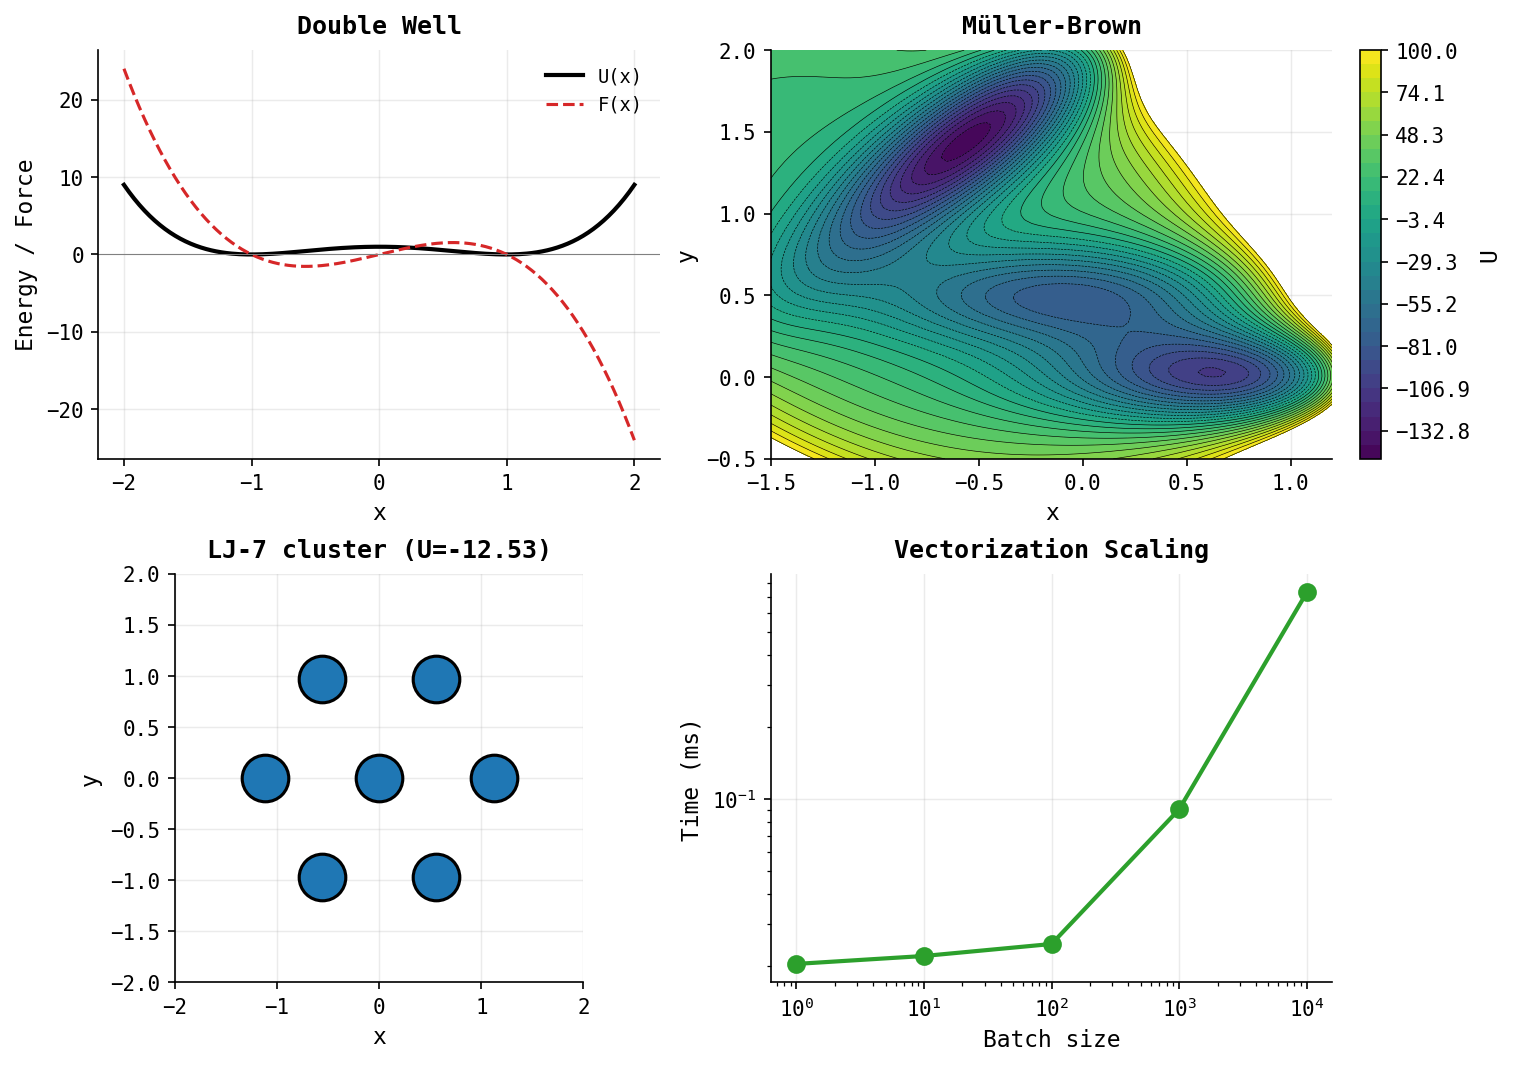
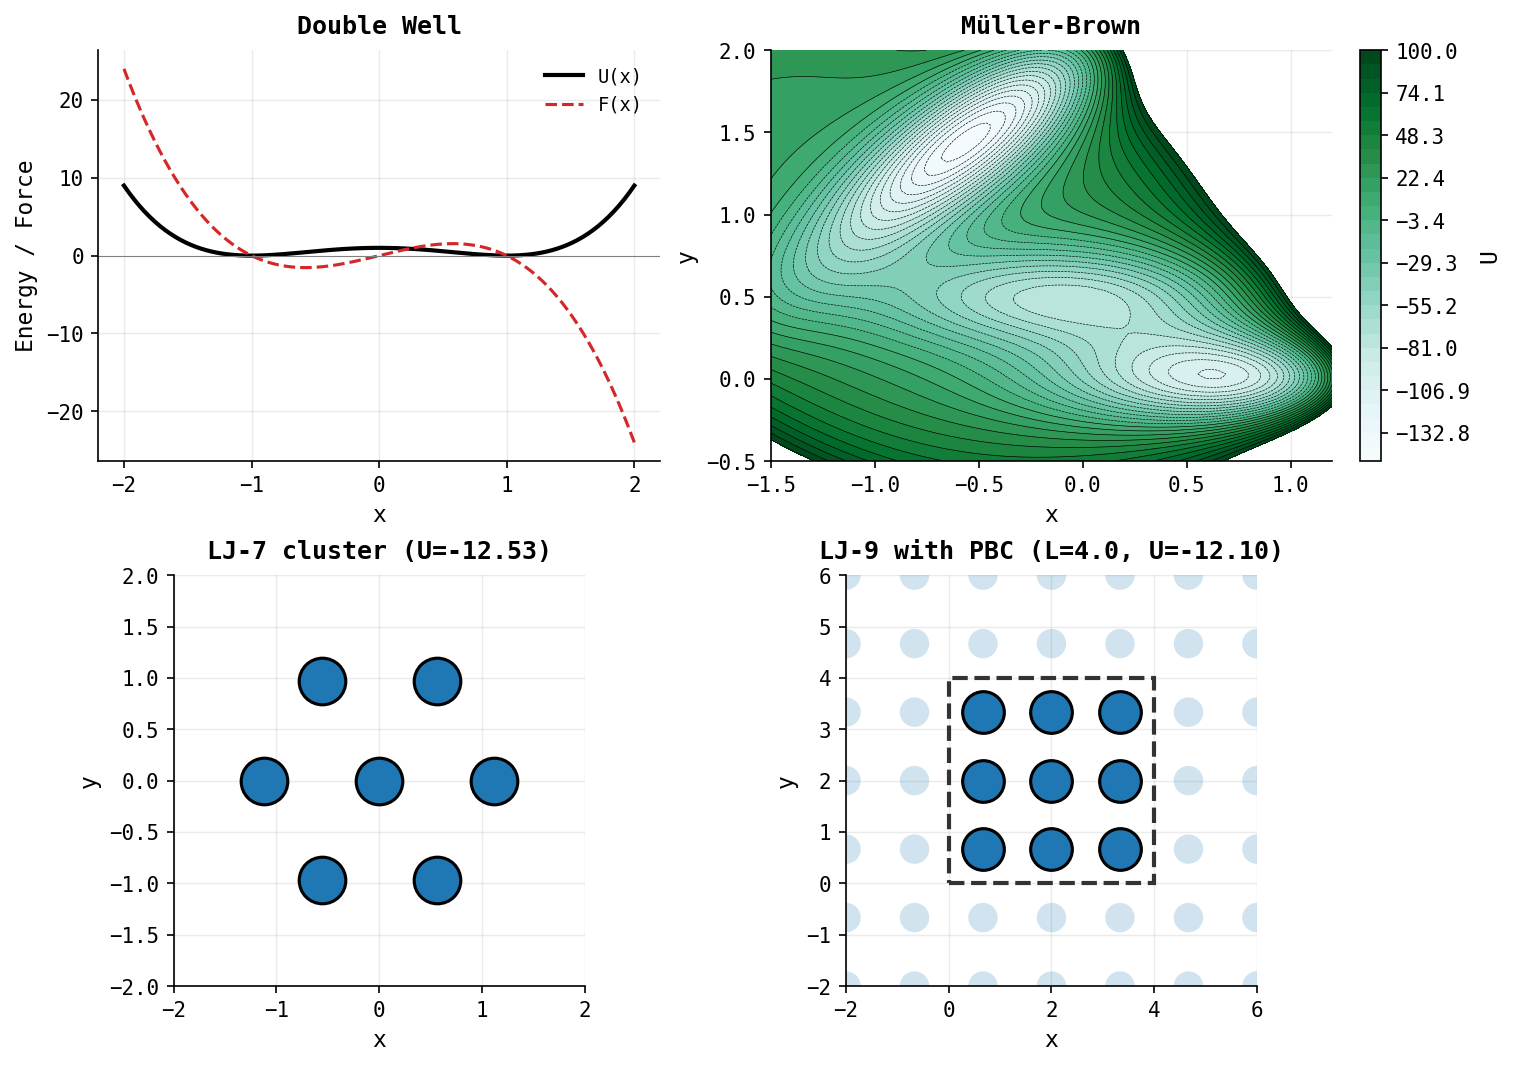
add pdc and paramets

diff --git a/uni_diffsim/potentials.py b/uni_diffsim/potentials.py
@@ -42,11 +42,14 @@ class DoubleWell(Potential):
     
     Minima at x = ±1, barrier at x = 0 with height a.
     Input shape: (...,) or (..., 1). Output shape: (...,).
+    
+    Args:
+        barrier_height: Height of the barrier at x=0. Differentiable parameter.
     """
     
     def __init__(self, barrier_height: float = 1.0):
         super().__init__()
-        self.barrier_height = barrier_height
+        self.barrier_height = nn.Parameter(torch.tensor(barrier_height))
     
     def energy(self, x: torch.Tensor) -> torch.Tensor:
         if x.shape[-1:] == (1,):
@@ -59,24 +62,33 @@ class MullerBrown(Potential):
     
     Has 3 minima and 2 saddle points.
     Input shape: (..., 2). Output shape: (...,).
+    
+    All parameters are differentiable. The default values correspond to the
+    standard Müller-Brown potential.
     """
     
-    # Standard parameters (registered as buffers for device handling)
-    _A = torch.tensor([-200., -100., -170., 15.])
-    _a = torch.tensor([-1., -1., -6.5, 0.7])
-    _b = torch.tensor([0., 0., 11., 0.6])
-    _c = torch.tensor([-10., -10., -6.5, 0.7])
-    _x0 = torch.tensor([1., 0., -0.5, -1.])
-    _y0 = torch.tensor([0., 0.5, 1.5, 1.])
+    # Standard parameter values
+    _A_default = torch.tensor([-200., -100., -170., 15.])
+    _a_default = torch.tensor([-1., -1., -6.5, 0.7])
+    _b_default = torch.tensor([0., 0., 11., 0.6])
+    _c_default = torch.tensor([-10., -10., -6.5, 0.7])
+    _x0_default = torch.tensor([1., 0., -0.5, -1.])
+    _y0_default = torch.tensor([0., 0.5, 1.5, 1.])
     
-    def __init__(self):
+    def __init__(self, 
+                 A: torch.Tensor | None = None,
+                 a: torch.Tensor | None = None,
+                 b: torch.Tensor | None = None,
+                 c: torch.Tensor | None = None,
+                 x0: torch.Tensor | None = None,
+                 y0: torch.Tensor | None = None):
         super().__init__()
-        self.register_buffer("A", self._A.clone())
-        self.register_buffer("a", self._a.clone())
-        self.register_buffer("b", self._b.clone())
-        self.register_buffer("c", self._c.clone())
-        self.register_buffer("x0", self._x0.clone())
-        self.register_buffer("y0", self._y0.clone())
+        self.A = nn.Parameter(A.clone() if A is not None else self._A_default.clone())
+        self.a = nn.Parameter(a.clone() if a is not None else self._a_default.clone())
+        self.b = nn.Parameter(b.clone() if b is not None else self._b_default.clone())
+        self.c = nn.Parameter(c.clone() if c is not None else self._c_default.clone())
+        self.x0 = nn.Parameter(x0.clone() if x0 is not None else self._x0_default.clone())
+        self.y0 = nn.Parameter(y0.clone() if y0 is not None else self._y0_default.clone())
     
     def energy(self, xy: torch.Tensor) -> torch.Tensor:
         """xy: (..., 2) -> (...)"""
@@ -90,22 +102,59 @@ class MullerBrown(Potential):
 
 
 class LennardJones(Potential):
-    """N-particle Lennard-Jones potential.
+    """N-particle Lennard-Jones potential with optional periodic boundary conditions.
     
     U = 4ε Σ_{i<j} [(σ/r_ij)¹² - (σ/r_ij)⁶]
     
+    For PBC, uses minimum image convention: distances are wrapped to [-L/2, L/2].
+    
     Input shape: (..., n_particles, dim). Output shape: (...,).
+    
+    Args:
+        eps: LJ well depth (default 1.0). Differentiable parameter.
+        sigma: LJ length scale (default 1.0). Differentiable parameter.
+        box_size: Simulation box size for PBC. Can be:
+            - None: no periodic boundaries (default)
+            - float: cubic/square box with side length L
+            - Tensor of shape (dim,): rectangular box with different lengths per dimension
+            Note: box_size is a buffer (not differentiable) since it defines geometry.
     """
     
-    def __init__(self, eps: float = 1.0, sigma: float = 1.0):
+    def __init__(self, eps: float = 1.0, sigma: float = 1.0, 
+                 box_size: float | torch.Tensor | None = None):
         super().__init__()
-        self.eps = eps
-        self.sigma = sigma
+        self.eps = nn.Parameter(torch.tensor(eps))
+        self.sigma = nn.Parameter(torch.tensor(sigma))
+        
+        if box_size is not None:
+            if isinstance(box_size, (int, float)):
+                box_size = torch.tensor([box_size])
+            elif not isinstance(box_size, torch.Tensor):
+                box_size = torch.tensor(box_size)
+            self.register_buffer("box_size", box_size.float())
+        else:
+            self.box_size = None
+    
+    def _minimum_image(self, diff: torch.Tensor) -> torch.Tensor:
+        """Apply minimum image convention for periodic boundaries.
+        
+        diff: (..., dim) displacement vectors
+        Returns: wrapped displacements in [-L/2, L/2]
+        """
+        if self.box_size is None:
+            return diff
+        # Wrap to [-L/2, L/2] using remainder
+        # box_size broadcasts: (dim,) with diff (..., dim)
+        return diff - self.box_size * torch.round(diff / self.box_size)
     
     def energy(self, x: torch.Tensor) -> torch.Tensor:
         """x: (..., n_particles, dim) -> (...)"""
-        # Pairwise distances: (..., n, n, dim)
+        # Pairwise displacements: (..., n, n, dim)
         diff = x.unsqueeze(-2) - x.unsqueeze(-3)
+        
+        # Apply minimum image convention for PBC
+        diff = self._minimum_image(diff)
+        
         r2 = (diff**2).sum(-1)  # (..., n, n)
         
         # Upper triangular mask (i < j pairs only)
@@ -124,13 +173,17 @@ class Harmonic(Potential):
     """Simple harmonic oscillator: U(x) = 0.5 * k * ||x - x0||².
     
     Input shape: (..., d). Output shape: (...,).
+    
+    Args:
+        k: Spring constant. Differentiable parameter.
+        center: Equilibrium position. Differentiable parameter if provided.
     """
     
     def __init__(self, k: float = 1.0, center: torch.Tensor | None = None):
         super().__init__()
-        self.k = k
+        self.k = nn.Parameter(torch.tensor(k))
         if center is not None:
-            self.register_buffer("center", center)
+            self.center = nn.Parameter(center.clone())
         else:
             self.center = None
     
@@ -199,7 +252,7 @@ if __name__ == "__main__":
     xy = torch.stack([X, Y], dim=-1)
     U = mb.energy(xy)
     levels = np.linspace(-150, 100, 30)
-    cs = ax.contourf(X.numpy(), Y.numpy(), U.detach().numpy(), levels=levels, cmap='viridis')
+    cs = ax.contourf(X.numpy(), Y.numpy(), U.detach().numpy(), levels=levels, cmap='BuGn')
     ax.contour(X.numpy(), Y.numpy(), U.detach().numpy(), levels=levels, colors='k', linewidths=0.3)
     ax.set_xlabel('x')
     ax.set_ylabel('y')
@@ -207,7 +260,7 @@ if __name__ == "__main__":
     plt.colorbar(cs, ax=ax, label='U')
     ax.set_axisbelow(True)
     
-    # 3. LJ-7 cluster
+    # 3. LJ-7 cluster (no PBC)
     ax = axes[1, 0]
     lj = LennardJones()
     angles = torch.linspace(0, 2*np.pi, 7)[:-1]
@@ -225,23 +278,45 @@ if __name__ == "__main__":
     ax.set_ylabel('y')
     ax.set_axisbelow(True)
     
-    # 4. Batch computation demo
+    # 4. LJ cluster with periodic boundary conditions
     ax = axes[1, 1]
-    batch_sizes = [1, 10, 100, 1000, 10000]
-    times = []
-    import time
-    for bs in batch_sizes:
-        xy_batch = torch.randn(bs, 2)
-        _ = mb.energy(xy_batch)
-        start = time.perf_counter()
-        for _ in range(100):
-            _ = mb.energy(xy_batch)
-        times.append((time.perf_counter() - start) / 100 * 1000)
+    L = 4.0  # box size
+    lj_pbc = LennardJones(box_size=L)
     
-    ax.loglog(batch_sizes, times, 'o-', lw=2, markersize=8, color='#2ca02c')
-    ax.set_xlabel('Batch size')
-    ax.set_ylabel('Time (ms)')
-    ax.set_title('Vectorization Scaling', fontweight='bold')
+    # Create a 3x3 grid of particles in the box
+    n_side = 3
+    spacing = L / n_side
+    pos_pbc = torch.zeros(n_side * n_side, 2)
+    idx = 0
+    for i in range(n_side):
+        for j in range(n_side):
+            pos_pbc[idx, 0] = (i + 0.5) * spacing
+            pos_pbc[idx, 1] = (j + 0.5) * spacing
+            idx += 1
+    
+    # Draw the periodic box
+    box = plt.Rectangle((0, 0), L, L, fill=False, edgecolor='#333', lw=2, ls='--')
+    ax.add_patch(box)
+    
+    # Draw ghost images (periodic copies) in faded color
+    for dx in [-L, 0, L]:
+        for dy in [-L, 0, L]:
+            if dx == 0 and dy == 0:
+                continue  # skip the main box
+            ghost_pos = pos_pbc + torch.tensor([dx, dy])
+            ax.scatter(ghost_pos[:, 0].numpy(), ghost_pos[:, 1].numpy(),
+                      s=200, c='#1f77b4', alpha=0.2, edgecolor='none')
+    
+    # Draw main particles
+    ax.scatter(pos_pbc[:, 0].numpy(), pos_pbc[:, 1].numpy(),
+               s=400, c='#1f77b4', edgecolor='k', lw=1.5)
+    
+    ax.set_xlim(-L*0.5, L*1.5)
+    ax.set_ylim(-L*0.5, L*1.5)
+    ax.set_aspect('equal')
+    ax.set_title(f'LJ-9 with PBC (L={L}, U={lj_pbc.energy(pos_pbc).item():.2f})', fontweight='bold')
+    ax.set_xlabel('x')
+    ax.set_ylabel('y')
     ax.set_axisbelow(True)
     
     plt.savefig(os.path.join(assets_dir, "potentials.png"), dpi=150, 

diff --git a/tests/test_potentials.py b/tests/test_potentials.py
@@ -134,6 +134,128 @@ class TestLennardJones:
         # Force should be ~zero at equilibrium
         assert torch.allclose(f, torch.zeros_like(f), atol=1e-4)
     
+    # --- Periodic Boundary Condition Tests ---
+    
+    @pytest.mark.parametrize("device", DEVICES)
+    def test_pbc_minimum_image_wrapping(self, device):
+        """Particles across periodic boundary should interact via minimum image."""
+        L = 5.0
+        lj_pbc = LennardJones(eps=1.0, sigma=1.0, box_size=L).to(device)
+        lj_no_pbc = LennardJones(eps=1.0, sigma=1.0).to(device)
+        
+        # Two particles: one at (0.5, 0) and one at (4.5, 0)
+        # Real distance = 4.0, but with PBC: wrapped distance = 1.0
+        x_pbc = torch.tensor([[0.5, 0.0], [4.5, 0.0]], device=device)
+        # Equivalent non-PBC configuration: particles 1.0 apart
+        x_direct = torch.tensor([[0.0, 0.0], [1.0, 0.0]], device=device)
+        
+        u_pbc = lj_pbc.energy(x_pbc)
+        u_direct = lj_no_pbc.energy(x_direct)
+        
+        assert torch.isclose(u_pbc, u_direct, rtol=1e-5)
+    
+    @pytest.mark.parametrize("device", DEVICES)
+    def test_pbc_force_direction(self, device):
+        """Force should point through the periodic boundary when that's shorter."""
+        L = 5.0
+        lj = LennardJones(eps=1.0, sigma=1.0, box_size=L).to(device)
+        
+        # Particles at (0.5, 0) and (4.5, 0): wrapped distance is 1.0
+        # diff = x[1] - x[0] = (4.0, 0), wrapped to (-1.0, 0)
+        # So particle 1 is at x=-1.0 relative to particle 0 (via boundary)
+        x = torch.tensor([[0.5, 0.0], [4.5, 0.0]], device=device)
+        f = lj.force(x)
+        
+        # At r=1.0 (< r_eq~1.12), particles repel
+        # Particle 0 is pushed in +x (away from particle 1 at relative x=-1)
+        # Particle 1 is pushed in -x (away from particle 0 at relative x=+1)
+        assert f[0, 0].item() > 0  # particle 0: force in +x
+        assert f[1, 0].item() < 0  # particle 1: force in -x
+    
+    @pytest.mark.parametrize("device", DEVICES)
+    def test_pbc_rectangular_box(self, device):
+        """Test non-cubic box with different lengths per dimension."""
+        box_size = torch.tensor([4.0, 6.0], device=device)
+        lj = LennardJones(eps=1.0, sigma=1.0, box_size=box_size).to(device)
+        
+        # Test wrapping in x: particles at (0.5, 0) and (3.5, 0)
+        # x-distance: 3.0 direct, 1.0 wrapped (since Lx=4)
+        x1 = torch.tensor([[0.5, 0.0], [3.5, 0.0]], device=device)
+        # Equivalent: particles 1.0 apart
+        lj_ref = LennardJones(eps=1.0, sigma=1.0).to(device)
+        x_ref = torch.tensor([[0.0, 0.0], [1.0, 0.0]], device=device)
+        
+        assert torch.isclose(lj.energy(x1), lj_ref.energy(x_ref), rtol=1e-5)
+        
+        # Test wrapping in y: particles at (0, 0.5) and (0, 5.5)
+        # y-distance: 5.0 direct, 1.0 wrapped (since Ly=6)
+        x2 = torch.tensor([[0.0, 0.5], [0.0, 5.5]], device=device)
+        x_ref2 = torch.tensor([[0.0, 0.0], [0.0, 1.0]], device=device)
+        
+        assert torch.isclose(lj.energy(x2), lj_ref.energy(x_ref2), rtol=1e-5)
+    
+    @pytest.mark.parametrize("device", DEVICES)
+    def test_pbc_3d(self, device):
+        """Test PBC in 3D."""
+        L = 5.0
+        lj = LennardJones(eps=1.0, sigma=1.0, box_size=L).to(device)
+        
+        # Particles wrapping in z-direction
+        x = torch.tensor([[0.0, 0.0, 0.5], [0.0, 0.0, 4.5]], device=device)
+        lj_ref = LennardJones(eps=1.0, sigma=1.0).to(device)
+        x_ref = torch.tensor([[0.0, 0.0, 0.0], [0.0, 0.0, 1.0]], device=device)
+        
+        assert torch.isclose(lj.energy(x), lj_ref.energy(x_ref), rtol=1e-5)
+    
+    @pytest.mark.parametrize("device", DEVICES)
+    def test_pbc_batch_configurations(self, device):
+        """Test PBC with batched configurations."""
+        L = 5.0
+        lj = LennardJones(eps=1.0, sigma=1.0, box_size=L).to(device)
+        
+        # Batch of 3 configurations, each with 4 particles in 2D
+        x = torch.randn(3, 4, 2, device=device) * L  # positions may be outside [0, L]
+        u = lj.energy(x)
+        
+        assert u.shape == (3,)
+        assert torch.isfinite(u).all()
+    
+    @pytest.mark.parametrize("device", DEVICES)
+    def test_pbc_translation_invariance(self, device):
+        """Energy should be invariant under translation by box vector."""
+        L = 5.0
+        lj = LennardJones(eps=1.0, sigma=1.0, box_size=L).to(device)
+        
+        x = torch.tensor([[1.0, 1.0], [2.5, 2.0], [3.0, 4.0]], device=device)
+        u1 = lj.energy(x)
+        
+        # Translate all particles by box vector
+        x_shifted = x + torch.tensor([L, 0.0], device=device)
+        u2 = lj.energy(x_shifted)
+        
+        assert torch.isclose(u1, u2, rtol=1e-5)
+    
+    @pytest.mark.parametrize("device", DEVICES)
+    def test_pbc_gradient_consistency(self, device):
+        """Autograd force should match finite difference with PBC."""
+        L = 5.0
+        lj = LennardJones(eps=1.0, sigma=1.0, box_size=L).to(device)
+        
+        x = torch.tensor([[0.5, 0.5], [4.5, 0.5]], device=device)
+        f_auto = lj.force(x)
+        
+        eps = 1e-4
+        f_fd = torch.zeros_like(x)
+        for i in range(2):
+            for j in range(2):
+                x_plus = x.clone()
+                x_minus = x.clone()
+                x_plus[i, j] += eps
+                x_minus[i, j] -= eps
+                f_fd[i, j] = -(lj.energy(x_plus) - lj.energy(x_minus)) / (2 * eps)
+        
+        assert torch.allclose(f_auto, f_fd, rtol=1e-2)
+    
     @pytest.mark.parametrize("device", DEVICES)
     def test_energy_at_equilibrium(self, device):
         """Energy at equilibrium should be -eps."""
